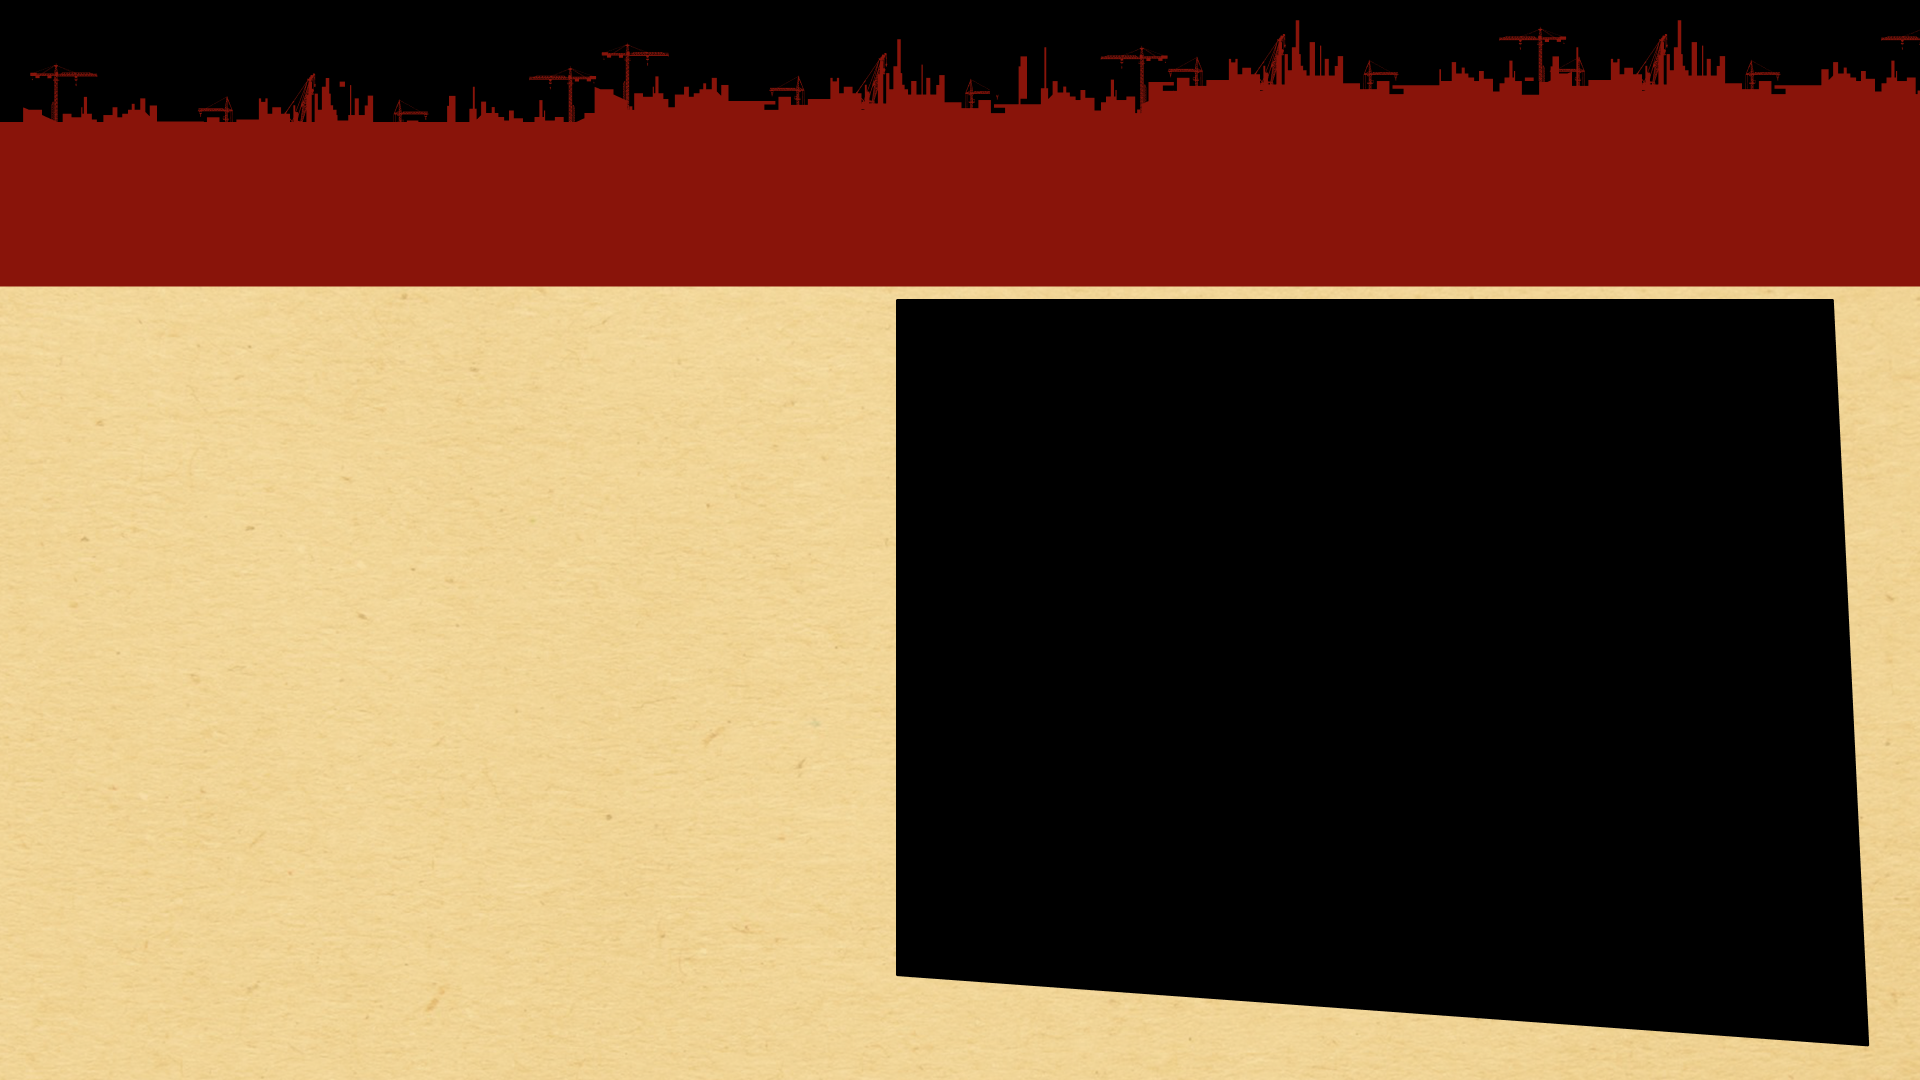
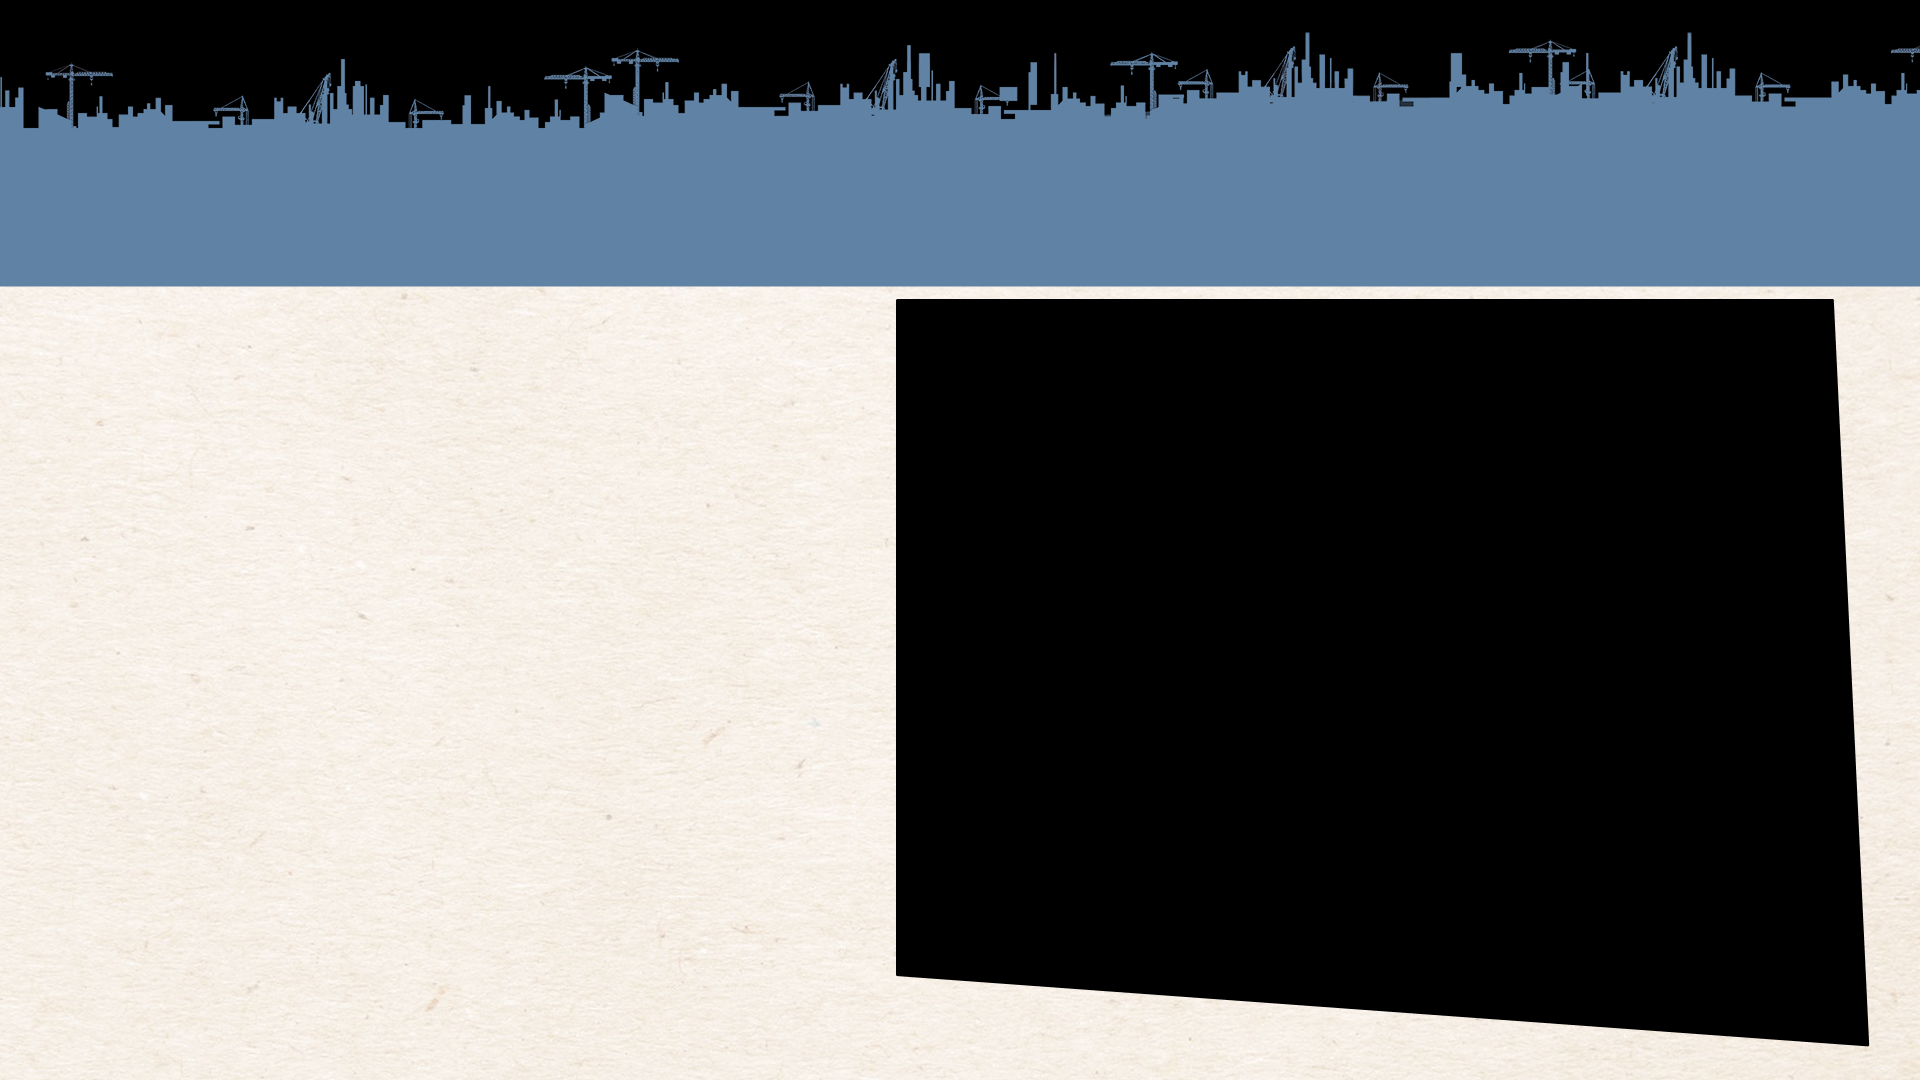
fix

diff --git a/src/pages/MainMenu/MainMenu.jsx b/src/pages/MainMenu/MainMenu.jsx
@@ -29,17 +29,17 @@ function MainMenu() {
       .then(data => {
         const formattedTexts = Array.isArray(data)
           ? data.map(item => {
-              const text =
-                item.label ??
-                (Array.isArray(item.labelSegments)
-                  ? item.labelSegments.map((s) => (s && s.text) || '').join(' ')
-                  : '')
-              return {
-                id: item.id,
-                text,
-                labelSegments: item.labelSegments,
-              }
-            })
+            const text =
+              item.label ??
+              (Array.isArray(item.labelSegments)
+                ? item.labelSegments.map((s) => (s && s.text) || '').join(' ')
+                : '')
+            return {
+              id: item.id,
+              text,
+              labelSegments: item.labelSegments,
+            }
+          })
           : []
         setTexts(formattedTexts)
       })
@@ -68,7 +68,7 @@ function MainMenu() {
 
   return (
     <div className={styles.mainMenu}>
-      <div 
+      <div
         className={styles.mainMenuBackground}
         style={{ backgroundImage: `url(${imageSrc})` }}
       />
@@ -77,8 +77,8 @@ function MainMenu() {
         {/* Центральный блок с текстом */}
         <div className={styles.mainMenuCenter}>
           <div className={styles.mainMenuTextContainer}>
-          <div className={styles.mainMenuTextBlock}>
-              <span 
+            <div className={styles.mainMenuTextBlock}>
+              <span
                 className={styles.mainMenuText}
                 dangerouslySetInnerHTML={{ __html: texts[currentTextIndex]?.text || '' }}
               />
@@ -91,13 +91,13 @@ function MainMenu() {
                   Подробнее
                 </button>
                 <div className={styles.controls}>
-                  <button 
+                  <button
                     className={styles.mainMenuArrow}
                     onClick={handlePrevText}
                     disabled={currentTextIndex === 0}
                     aria-label="Предыдущий текст"
                   >
-                    <ArrowLeftIcon fontSize='large'/>
+                    <ArrowLeftIcon fontSize='large' />
                   </button>
                   <button
                     className={styles.mainMenuArrow}
@@ -105,24 +105,21 @@ function MainMenu() {
                     disabled={currentTextIndex === texts.length - 1}
                     aria-label="Следующий текст"
                   >
-                    <ArrowRightIcon fontSize='large'/>
+                    <ArrowRightIcon fontSize='large' />
                   </button>
                 </div>
               </div>
             </div>
           </div>
         </div>
-
         {/* Кнопка "Перейти в каталог" справа от центра */}
-        <div className={styles.mainMenuCatalogBtnContainer}>
-          <button
-            type="button"
-            className={styles.mainMenuCatalogBtn}
-            onClick={handleCatalog}
-          >
-            Перейти в каталог
-          </button>
-        </div>
+        <button
+          type="button"
+          className={styles.mainMenuCatalogBtn}
+          onClick={handleCatalog}
+        >
+          Перейти <br /> в каталог <br /> скульптур
+        </button>
       </div>
     </div>
   )

diff --git a/src/index.css b/src/index.css
@@ -7,8 +7,78 @@
   font-display: swap;
 }
 
-/* Шрифт Raleway загружается через link в index.html (Google Fonts с поддержкой кириллицы).
-   Raleway-v4020 — алиас для использования в стилях; fallback 'Raleway' — тот же шрифт. */
+/* Raleway — Google Fonts (link в index.html). Raleway-v4020 — алиас для стилей проекта. */
+@font-face {
+  font-family: 'Raleway-v4020';
+  font-style: normal;
+  font-weight: 400;
+  font-display: swap;
+  src: url(https://fonts.gstatic.com/s/raleway/v37/1Ptug8zYS_SKggPNyCkIT4ttDfCmxA.woff2) format('woff2');
+  unicode-range: U+0301, U+0400-045F, U+0490-0491, U+04B0-04B1, U+2116;
+}
+
+@font-face {
+  font-family: 'Raleway-v4020';
+  font-style: normal;
+  font-weight: 400;
+  font-display: swap;
+  src: url(https://fonts.gstatic.com/s/raleway/v37/1Ptug8zYS_SKggPNyC0IT4ttDfA.woff2) format('woff2');
+  unicode-range: U+0000-00FF, U+0131, U+0152-0153, U+02BB-02BC, U+02C6, U+02DA, U+02DC, U+0304, U+0308, U+0329, U+2000-206F, U+20AC, U+2122, U+2191, U+2193, U+2212, U+2215, U+FEFF, U+FFFD;
+}
+
+@font-face {
+  font-family: 'Raleway-v4020';
+  font-style: normal;
+  font-weight: 500;
+  font-display: swap;
+  src: url(https://fonts.gstatic.com/s/raleway/v37/1Ptug8zYS_SKggPNyCkIT4ttDfCmxA.woff2) format('woff2');
+  unicode-range: U+0301, U+0400-045F, U+0490-0491, U+04B0-04B1, U+2116;
+}
+
+@font-face {
+  font-family: 'Raleway-v4020';
+  font-style: normal;
+  font-weight: 500;
+  font-display: swap;
+  src: url(https://fonts.gstatic.com/s/raleway/v37/1Ptug8zYS_SKggPNyC0IT4ttDfA.woff2) format('woff2');
+  unicode-range: U+0000-00FF, U+0131, U+0152-0153, U+02BB-02BC, U+02C6, U+02DA, U+02DC, U+0304, U+0308, U+0329, U+2000-206F, U+20AC, U+2122, U+2191, U+2193, U+2212, U+2215, U+FEFF, U+FFFD;
+}
+
+@font-face {
+  font-family: 'Raleway-v4020';
+  font-style: normal;
+  font-weight: 600;
+  font-display: swap;
+  src: url(https://fonts.gstatic.com/s/raleway/v37/1Ptug8zYS_SKggPNyCkIT4ttDfCmxA.woff2) format('woff2');
+  unicode-range: U+0301, U+0400-045F, U+0490-0491, U+04B0-04B1, U+2116;
+}
+
+@font-face {
+  font-family: 'Raleway-v4020';
+  font-style: normal;
+  font-weight: 600;
+  font-display: swap;
+  src: url(https://fonts.gstatic.com/s/raleway/v37/1Ptug8zYS_SKggPNyC0IT4ttDfA.woff2) format('woff2');
+  unicode-range: U+0000-00FF, U+0131, U+0152-0153, U+02BB-02BC, U+02C6, U+02DA, U+02DC, U+0304, U+0308, U+0329, U+2000-206F, U+20AC, U+2122, U+2191, U+2193, U+2212, U+2215, U+FEFF, U+FFFD;
+}
+
+@font-face {
+  font-family: 'Raleway-v4020';
+  font-style: normal;
+  font-weight: 700;
+  font-display: swap;
+  src: url(https://fonts.gstatic.com/s/raleway/v37/1Ptug8zYS_SKggPNyCkIT4ttDfCmxA.woff2) format('woff2');
+  unicode-range: U+0301, U+0400-045F, U+0490-0491, U+04B0-04B1, U+2116;
+}
+
+@font-face {
+  font-family: 'Raleway-v4020';
+  font-style: normal;
+  font-weight: 700;
+  font-display: swap;
+  src: url(https://fonts.gstatic.com/s/raleway/v37/1Ptug8zYS_SKggPNyC0IT4ttDfA.woff2) format('woff2');
+  unicode-range: U+0000-00FF, U+0131, U+0152-0153, U+02BB-02BC, U+02C6, U+02DA, U+02DC, U+0304, U+0308, U+0329, U+2000-206F, U+20AC, U+2122, U+2191, U+2193, U+2212, U+2215, U+FEFF, U+FFFD;
+}
 * {
   margin: 0;
   padding: 0;

diff --git a/src/components/Header/Header.module.css b/src/components/Header/Header.module.css
@@ -19,11 +19,11 @@
   display: flex;
   align-items: flex-start;
   text-align: center;
-  font-size: clamp(1rem, 4vw, 1.75rem);
+  font-size: clamp(1rem, 4vw, 1.5rem);
   font-weight: normal;
   color: #FFFFFF;
   text-transform: uppercase;
-  letter-spacing: clamp(1px, 0.2vw, 2px);
+  letter-spacing: clamp(1px, 0.2vw, 2.2px);
   margin: 0;
   font-family: 'Raleway-v4020', 'Raleway', serif;
 }
@@ -133,14 +133,14 @@
   max-height: 80vh;
   overflow-y: auto;
   overflow-x: hidden;
-  background: #FBF7F3;
+  background: #EDF5FE;
   border: none;
   border-radius: 2px;
   padding: 20px;
   box-shadow: 0 8px 32px rgba(0, 0, 0, 0.5);
   z-index: 1002;
   scrollbar-width: thin;
-  scrollbar-color: #826748 #FBF7F3;
+  scrollbar-color: #5C7898 #FBF7F3;
 }
 
 .headerDropdown::-webkit-scrollbar {
@@ -153,12 +153,12 @@
 }
 
 .headerDropdown::-webkit-scrollbar-thumb {
-  background: #826748;
+  background: #5C7898;
   border-radius: 4px;
 }
 
 .headerDropdown::-webkit-scrollbar-thumb:hover {
-  background: #221102;
+  background: #FBF7F3;
 }
 
 .headerDropdownHeader {
@@ -185,7 +185,7 @@
   padding: 0;
   background: none;
   border: none;
-  color: #521E1E;
+  color: #240B0B;
   font-size: 18px;
   line-height: 1;
   cursor: pointer;
@@ -295,7 +295,7 @@
   right: 0;
   margin-top: 8px;
   min-width: 620px;
-  background: #fff;
+  background: #EDF5FE;
   border: 1px solid rgba(203, 178, 147, 0.4);
   border-radius: 8px;
   padding: 12px 14px;
@@ -351,7 +351,7 @@
   background: rgba(255, 255, 255, 0.1);
   border: none;
   border-radius: 50%;
-  color: #521E1E;
+  color: #240B0B;
   cursor: pointer;
   display: flex;
   align-items: center;

diff --git a/src/pages/MainMenu/MainMenu.module.css b/src/pages/MainMenu/MainMenu.module.css
@@ -114,7 +114,7 @@
   padding: clamp(10px, 2vh, 15px) clamp(20px, 5vw, 40px);
   font-size: clamp(1rem, 2.5vw, 1.5rem);
   background: none;
-  color: #89140A;
+  color: #fff;
   border: solid #000000 2px;
   border-radius: 2px;
   cursor: pointer;
@@ -155,24 +155,29 @@
   pointer-events: none;
 }
 
-.mainMenuCatalogBtnContainer {
-  position: absolute;
-  right: 6%;
-  bottom: 27%;
-}
+
 
 .mainMenuCatalogBtn {
-  font-family: 'P22 Constructivist Cyrillic', serif;
+  position: absolute;
+  display: flex;
+  justify-content: center;
+  align-items: center;
+  right: 6%;
+  top: 27%;
+  height: 350px;
+  width: 350px;
+  border-radius: 2px;
+  font-weight: bold;
+  border: solid #000 2px;
   background: rgb(255, 255, 255, 0.4);
+  font-family: 'Raleway-v4020', 'Raleway', sans-serif;
   color: #000;
   width: min(350px, 90vw);
   padding: clamp(12px, 2vh, 15px) clamp(20px, 4vw, 30px);
   font-size: clamp(1rem, 2.5vw, 1.5rem);
-  border-radius: 2px;
-  border: solid #000 2px;
   cursor: pointer;
   transition: all 0.3s ease;
-  font-weight: 600;
+ 
   text-transform: uppercase;
 }
 

diff --git a/src/components/VideoPreview/VideoPreview.jsx b/src/components/VideoPreview/VideoPreview.jsx
@@ -1,18 +1,16 @@
 import { useState, useEffect } from 'react'
 import styles from './VideoPreview.module.css'
-
-// Заставка: файлы из public (main_page_img.jpg, main_page_img-4k.jpg) или из assets через import
-const DEFAULT_SPLASH = '/main_page_img.jpg'
-const DEFAULT_SPLASH_4K = '/main_page_img-4k.jpg'
+import mainPageImg from '../../assets/main_page_img.png'
+import mainPageImg4k from '../../assets/main_page_img-4k.png'
 
 function VideoPreview({ onComplete }) {
   const [showPreview, setShowPreview] = useState(true)
   const [imageError, setImageError] = useState(false)
-  const [imageSrc, setImageSrc] = useState(DEFAULT_SPLASH)
+  const [imageSrc, setImageSrc] = useState(mainPageImg)
 
   useEffect(() => {
     const is4K = window.innerWidth >= 2560 || window.innerHeight >= 1440
-    setImageSrc(is4K ? DEFAULT_SPLASH_4K : DEFAULT_SPLASH)
+    setImageSrc(is4K ? mainPageImg4k : mainPageImg)
   }, [])
 
   const handleImageError = () => {

diff --git a/src/components/PhotoGallery/PhotoGallery.module.css b/src/components/PhotoGallery/PhotoGallery.module.css
@@ -34,16 +34,11 @@
 }
 
 .photoGalleryImage {
-  width: 100%;
-  height: 100%;
+  height: 600px;
   object-fit: cover;
-  cursor: pointer;
   transition: transform 0.3s ease, opacity 0.3s ease;
 }
 
-.photoGalleryImage:hover {
-  transform: scale(1.02);
-}
 
 .photoGalleryArrow {
   position: absolute;
@@ -150,7 +145,16 @@
   z-index: 1 !important;
 }
 
+.photoGalleryFullscreen .photoGalleryImageWrapper {
+  width: 100%;
+  height: 100%;
+}
+
 .photoGalleryFullscreen .photoGalleryImage {
+  width: 100%;
+  height: 100%;
+  max-width: 100%;
+  max-height: 100%;
   object-fit: contain;
 }
 

diff --git a/index.html b/index.html
@@ -5,6 +5,12 @@
   <meta charset="UTF-8" />
   <link rel="icon" type="image/svg+xml" href="/vite.svg" />
   <meta name="viewport" content="width=device-width, initial-scale=1.0" />
+  <link rel="preconnect" href="https://fonts.googleapis.com" />
+  <link rel="preconnect" href="https://fonts.gstatic.com" crossorigin />
+  <link
+    href="https://fonts.googleapis.com/css2?family=Raleway:wght@400;500;600;700&display=swap"
+    rel="stylesheet"
+  />
   <title>Памятники советской эпохи</title>
 </head>
 

diff --git a/src/pages/CatalogItem/CatalogItem.module.css b/src/pages/CatalogItem/CatalogItem.module.css
@@ -73,7 +73,7 @@
 
 .catalogItemName {
   font-family: 'Raleway-v4020', 'Raleway', serif !important;
-  font-size: clamp(1.25rem, 3vw, 2rem);
+  font-size: clamp(1.25rem, 3vw, 1.5rem);
   color: #221102;
   margin-bottom: 20px;
   font-weight: 700;

diff --git a/src/pages/Catalog/Catalog.module.css b/src/pages/Catalog/Catalog.module.css
@@ -132,7 +132,7 @@
   left: 0;
   right: 0;
   min-height: clamp(60px, 12vh, 80px);
-  background: #8B0000;
+  background: #34506C;
   padding: clamp(12px, 2vh, 24px) clamp(14px, 3vw, 28px);
   color: #fff;
   z-index: 2;

diff --git a/src/pages/SubMenu/SubMenu.module.css b/src/pages/SubMenu/SubMenu.module.css
@@ -283,7 +283,7 @@
 }
 
 .subMenuBtn {
-  font-family: 'P22 Constructivist Cyrillic', serif;
+  font-family: 'Raleway-v4020', 'Raleway', serif;
   padding: 12px 24px;
   font-size: 0.95rem;
   border: none;
